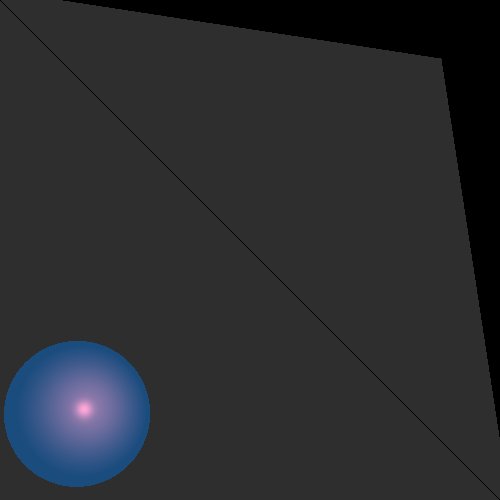
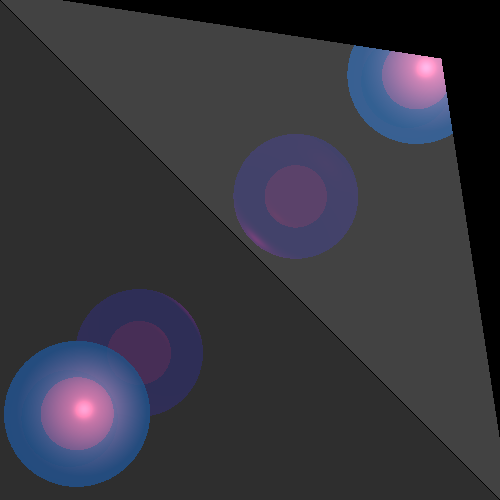
stage8final

diff --git a/src/renderer/SimpleRayTracer.java b/src/renderer/SimpleRayTracer.java
@@ -10,7 +10,6 @@ import primitives.Vector;
 import scene.Scene;
 
 import static java.lang.Math.abs;
-import static java.lang.Math.max;
 import static primitives.Util.alignZero;
 
 /**
@@ -19,46 +18,170 @@ import static primitives.Util.alignZero;
  */
 class SimpleRayTracer extends RayTracerBase {
 
+    /** Maximum recursion depth for global effects. */
+    private static final int MAX_CALC_COLOR_LEVEL = 10;
+
+    /** Initial attenuation factor for the recursion tree. */
+    private static final Double3 INITIAL_K = Double3.ONE;
+
+    /** Minimal attenuation factor below which color contribution is ignored. */
+    private static final Double3 MIN_CALC_COLOR_K = new Double3(0.001);
+
+    /** Current light source being processed for local effects. */
+    private LightSource lightSource;
+
     /** Constructor for SimpleRayTracer that takes a Scene object and passes it to the superclass constructor. */
     SimpleRayTracer(Scene scene) {
         super(scene);
     }
 
     /**
-     * Calculates the color at an intersection point.
+     * Calculates the color at an intersection point. (Wrapper method)
      * @param intersection the intersection object
      * @param ray the ray that created the intersection
      * @return the color at the intersection
      */
     private Color calcColor(Intersectable.Intersection intersection, Ray ray) {
-        Color color = _scene.ambientLight.getIntensity()
-                .scale(intersection.material.kA)
-                .add(intersection.geometry.getEmission());
+        // מוסיפים רק את התאורה הסביבתית כבסיס
+        Color color = _scene.ambientLight.getIntensity().scale(intersection.material.kA);
 
         return preprocessIntersection(intersection, ray)
-                ? color.add(calcColorLocalEffects(intersection))
+                ? color.add(calcColor(intersection, MAX_CALC_COLOR_LEVEL, INITIAL_K))
                 : color;
+    }
+
+    /**
+     * Recursive method to calculate both local and global effects.
+     * @param intersection the intersection object
+     * @param level the current recursion level
+     * @param k the accumulated attenuation factor
+     * @return the total color contribution
+     */
+    private Color calcColor(Intersectable.Intersection intersection, int level, Double3 k) {
+        Color color = calcLocalEffects(intersection, k);
+        return 1 == level ? color : color.add(calcGlobalEffects(intersection, level, k));
+    }
+
+    /**
+     * Calculates the global effects (Reflection and Refraction/Transparency) by casting secondary rays.
+     * @param intersection the intersection object
+     * @param level the current recursion level
+     * @param k the accumulated attenuation factor
+     * @return the global lighting color contribution
+     */
+    private Color calcGlobalEffects(Intersectable.Intersection intersection, int level, Double3 k) {
+        Color color = Color.BLACK;
+        Material material = intersection.material;
+
+        Ray krRay = constructReflectionRay(intersection);
+        color = color.add(calcGlobalEffect(krRay, level, k, material.kR));
+
+        Ray ktRay = constructTransparencyRay(intersection);
+        color = color.add(calcGlobalEffect(ktRay, level, k, material.kT));
+
+        return color;
+    }
+
+    /**
+     * Calculates the color of a specific secondary ray (either reflection or transparency).
+     * @param ray the secondary ray to trace
+     * @param level the current recursion level
+     * @param k the accumulated attenuation factor
+     * @param kx the material property (kT or kR)
+     * @return the color contribution of the ray
+     */
+    private Color calcGlobalEffect(Ray ray, int level, Double3 k, Double3 kx) {
+        Double3 kkx = k.product(kx);
+        if (kkx.isLowerThan(MIN_CALC_COLOR_K)) {
+            return Color.BLACK;
+        }
+
+        var intersections = _scene.geometries.calcIntersections(ray);
+        if (intersections == null || intersections.isEmpty()) {
+            return _scene.background.scale(kx);
+        }
+
+        var closestIntersection = ray.findClosestIntersection(intersections);
+        if (closestIntersection == null) {
+            return _scene.background.scale(kx);
+        }
+
+        return preprocessIntersection(closestIntersection, ray)
+                ? calcColor(closestIntersection, level - 1, kkx).scale(kx)
+                : Color.BLACK;
     }
 
     /**
      * Calculates the local lighting effects at an intersection point.
      * @param intersection the intersection object
+     * @param k the accumulated attenuation factor
      * @return the local lighting color contribution
      */
-    private Color calcColorLocalEffects(Intersectable.Intersection intersection) {
-        Color color = Color.BLACK;
+    private Color calcLocalEffects(Intersectable.Intersection intersection, Double3 k) {
+        // מתחילים מחישוב צבע הפליטה של הגוף הנחתך, ולא משחור!
+        Color color = intersection.geometry.getEmission();
 
         for (LightSource lightSource : _scene.lights) {
+            this.lightSource = lightSource;
             if (preprocessLightSource(intersection, lightSource)) {
-                color = color.add(
-                        lightIntensity.scale(
-                                calcDiffusive(intersection).add(calcSpecular(intersection))
-                        )
-                );
+                Double3 ktr = transparency(intersection);
+
+                if (ktr.product(k).isGreaterThan(MIN_CALC_COLOR_K)) {
+                    color = color.add(
+                            lightSource.getIntensity(intersection.point).scale(ktr).scale(
+                                    calcDiffusive(intersection).add(calcSpecular(intersection))
+                            )
+                    );
+                }
             }
         }
 
         return color;
+    }
+
+    /**
+     * Calculates the aggregated transparency attenuation factor for partial shadows.
+     * @param intersection the intersection point being shaded
+     * @return the accumulated transparency factor between the point and the current light source
+     */
+    private Double3 transparency(Intersectable.Intersection intersection) {
+        Double3 ktr = Double3.ONE;
+        Vector lightDirection = l.scale(-1);
+        Ray shadowRay = new Ray(intersection.point, lightDirection, normal);
+        double lightDistance = lightSource.getDistance(intersection.point);
+
+        var shadowIntersections = _scene.geometries.calcIntersections(shadowRay);
+
+        if (shadowIntersections == null || shadowIntersections.isEmpty()) {
+            return ktr;
+        }
+
+        for (Intersectable.Intersection shadowIntersection : shadowIntersections) {
+            if (shadowIntersection.point.distance(shadowRay.origin()) < lightDistance) {
+                ktr = ktr.product(shadowIntersection.geometry.getMaterial().kT);
+
+                if (ktr.isLowerThan(MIN_CALC_COLOR_K)) {
+                    return Double3.ZERO;
+                }
+            }
+        }
+
+        return ktr;
+    }
+
+    /**
+     * Constructs a reflection ray using the formula: r = v - 2 * (v * n) * n
+     */
+    private Ray constructReflectionRay(Intersectable.Intersection intersection) {
+        Vector r = v.add(normal.scale(-2 * v.dotProduct(normal))).normalize();
+        return new Ray(intersection.point, r, normal);
+    }
+
+    /**
+     * Constructs a transparency ray (continues in the same direction as the original ray).
+     */
+    private Ray constructTransparencyRay(Intersectable.Intersection intersection) {
+        return new Ray(intersection.point, v, normal);
     }
 
     /**

diff --git a/unittests/renderer/TransparencyReflectionTests.java b/unittests/renderer/TransparencyReflectionTests.java
@@ -3,6 +3,7 @@ package renderer;
 import static java.awt.Color.BLUE;
 import static java.awt.Color.RED;
 
+import geometries.impl.Polygon;
 import org.junit.jupiter.api.Test;
 
 import geometries.impl.Sphere;
@@ -112,5 +113,59 @@ class TransparencyReflectionTests {
          .build() //
          .renderImage() //
          .writeToImage("refractionShadow");
+   }
+   @Test
+   public void myFinalCustomScene() {
+      Scene scene = new Scene("My Final Scene");
+      scene.setAmbientLight(new AmbientLight(new Color(30, 30, 30)));
+
+      scene.geometries.add(
+              // 1. רצפה משתקפת (מראה) - מדגימה השתקפות
+              new Polygon(
+                      new Point(-200, -200, -150),
+                      new Point(200, -200, -150),
+                      new Point(200, 200, -150),
+                      new Point(-200, 200, -150)
+              )
+                      .setEmission(new Color(20, 20, 20))
+                      .setMaterial(new Material().setKD(0.5).setKS(0.5).setShininess(60).setKR(0.5)),
+
+              // 2. כדור חיצוני שקוף - מדגים שקיפות וצל חלקי
+              new Sphere(new Point(0, 0, -50), 60D)
+                      .setEmission(new Color(java.awt.Color.BLUE).scale(0.1))
+                      .setMaterial(new Material().setKD(0.2).setKS(0.9).setShininess(100).setKT(0.8)),
+
+              // 3. כדור פנימי אטום - כדי לראות אותו דרך הכדור השקוף
+              new Sphere(new Point(0, 0, -50), 30D)
+                      .setEmission(new Color(java.awt.Color.RED))
+                      .setMaterial(new Material().setKD(0.4).setKS(0.3).setShininess(100)),
+
+              // 4. משולש אטום מרחף - מטיל צל על הכדור והרצפה
+              new Triangle(
+                      new Point(50, 50, 50),
+                      new Point(100, 50, 50),
+                      new Point(75, 100, 50)
+              )
+                      .setEmission(new Color(java.awt.Color.GREEN).scale(0.5))
+                      .setMaterial(new Material().setKD(0.6).setKS(0.4).setShininess(30))
+      );
+
+      // מקור תאורה שממוקם כך שיטיל צללים מעניינים
+      scene.lights.add(
+              new SpotLight(new Color(700, 500, 500), new Point(150, 150, 150), new Vector(-1, -1, -1.5))
+                      .setKl(0.0001).setKq(0.000005)
+      );
+
+      Camera.Builder cameraBuilder = Camera.getBuilder()
+              .setRayTracer(scene, RayTracerType.SIMPLE)
+              .setLocation(new Point(0, 0, 800))
+              .setDirection(new Vector(0, 0, -1), new Vector(0, 1, 0))
+              .setVpDistance(800)
+              .setVpSize(200, 200)
+              .setResolution(600, 600); // אפשר להקטין ל-400x400 אם הרינדור לוקח יותר מדי זמן
+
+      cameraBuilder.build()
+              .renderImage()
+              .writeToImage("myFinalCustomScene8");
    }
 }

diff --git a/src/primitives/Double3.java b/src/primitives/Double3.java
@@ -102,4 +102,14 @@ public record Double3(double _d1, double _d2, double _d3) {
     *               the corresponding component in {@code other}
     */
    public boolean isLowerThan(Double3 other) { return _d1 < other._d1 && _d2 < other._d2 && _d3 < other._d3; }
+
+   /**
+    * Checks whether this triad is not lower than another triad component-wise.
+    * @param  other the triad to compare with
+    * @return       {@code true} if at least one component of this triad is greater
+    *               than or equal to the corresponding component in {@code other}
+    */
+   public boolean isGreaterThan(Double3 other) {
+      return _d1 >= other._d1 || _d2 >= other._d2 || _d3 >= other._d3;
+   }
 }

diff --git a/src/test/Main.java b/src/test/Main.java
@@ -6,7 +6,7 @@ import static primitives.Util.isZero;
 import geometries.impl.*;
 import primitives.*;
 
-/**
+/** 
  * Basic sanity tests for the primitives classes.
  * The program performs a small set of runtime checks on the basic
  * geometric primitives and on constructors of several geometry objects.
